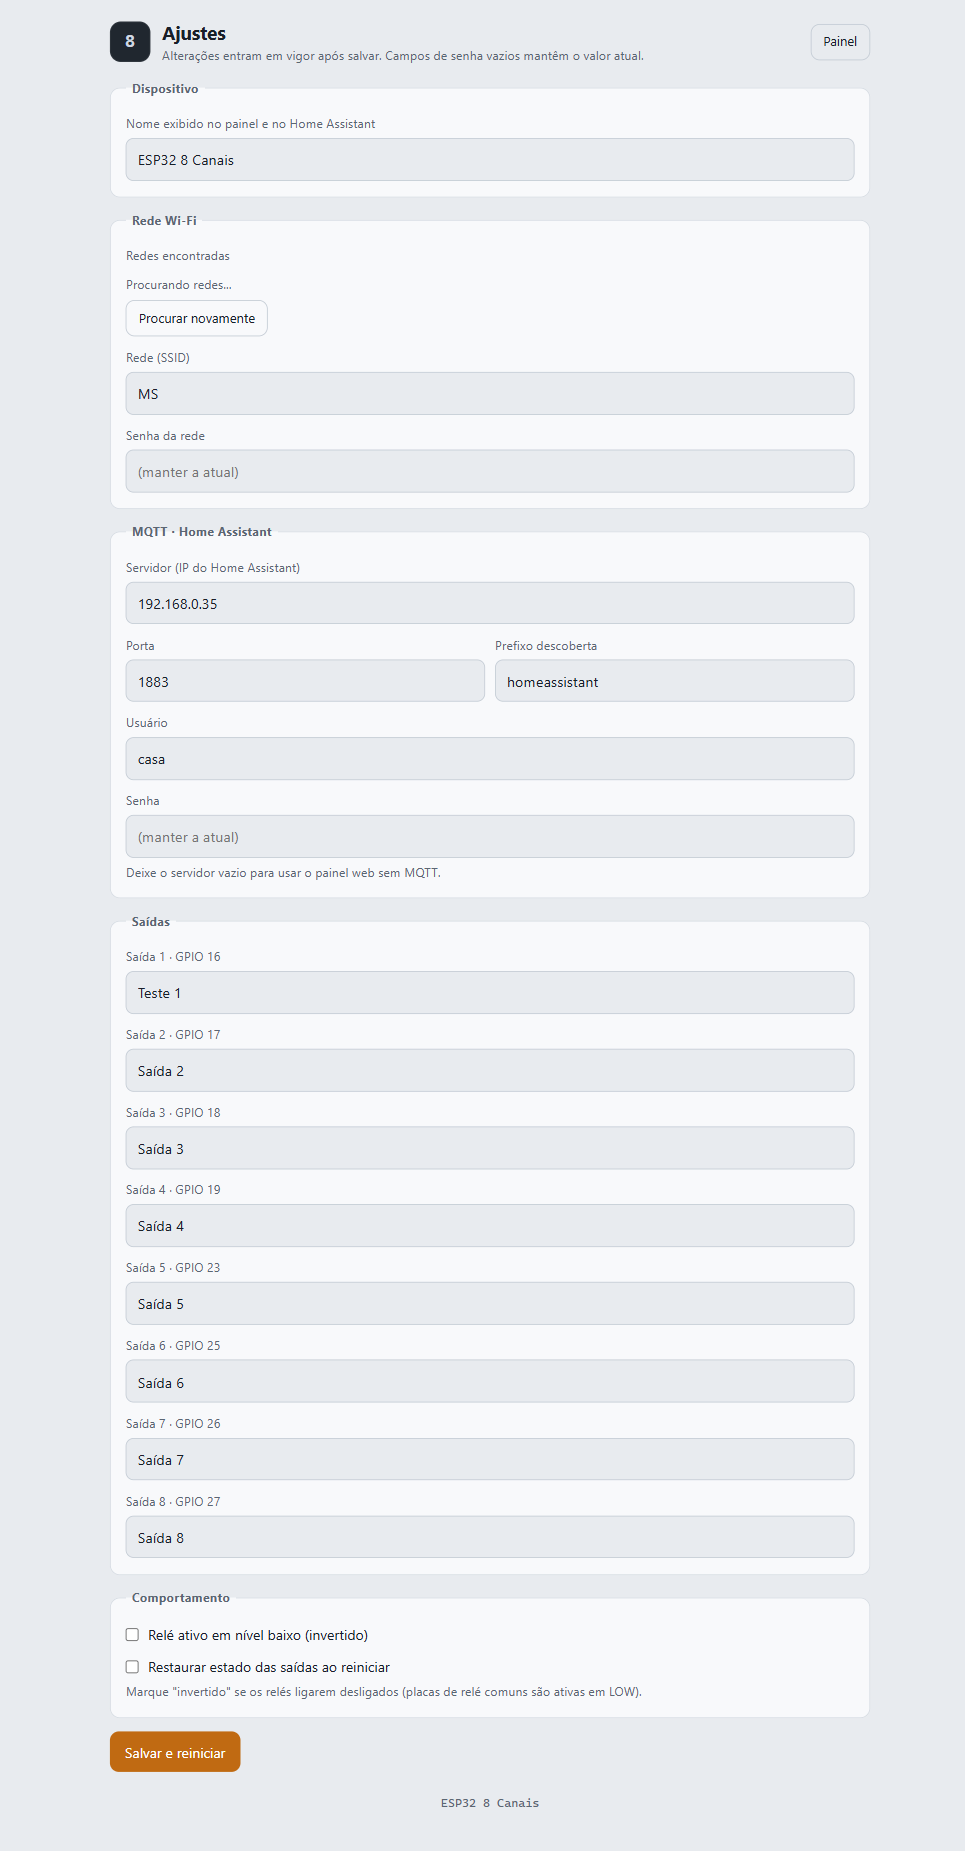
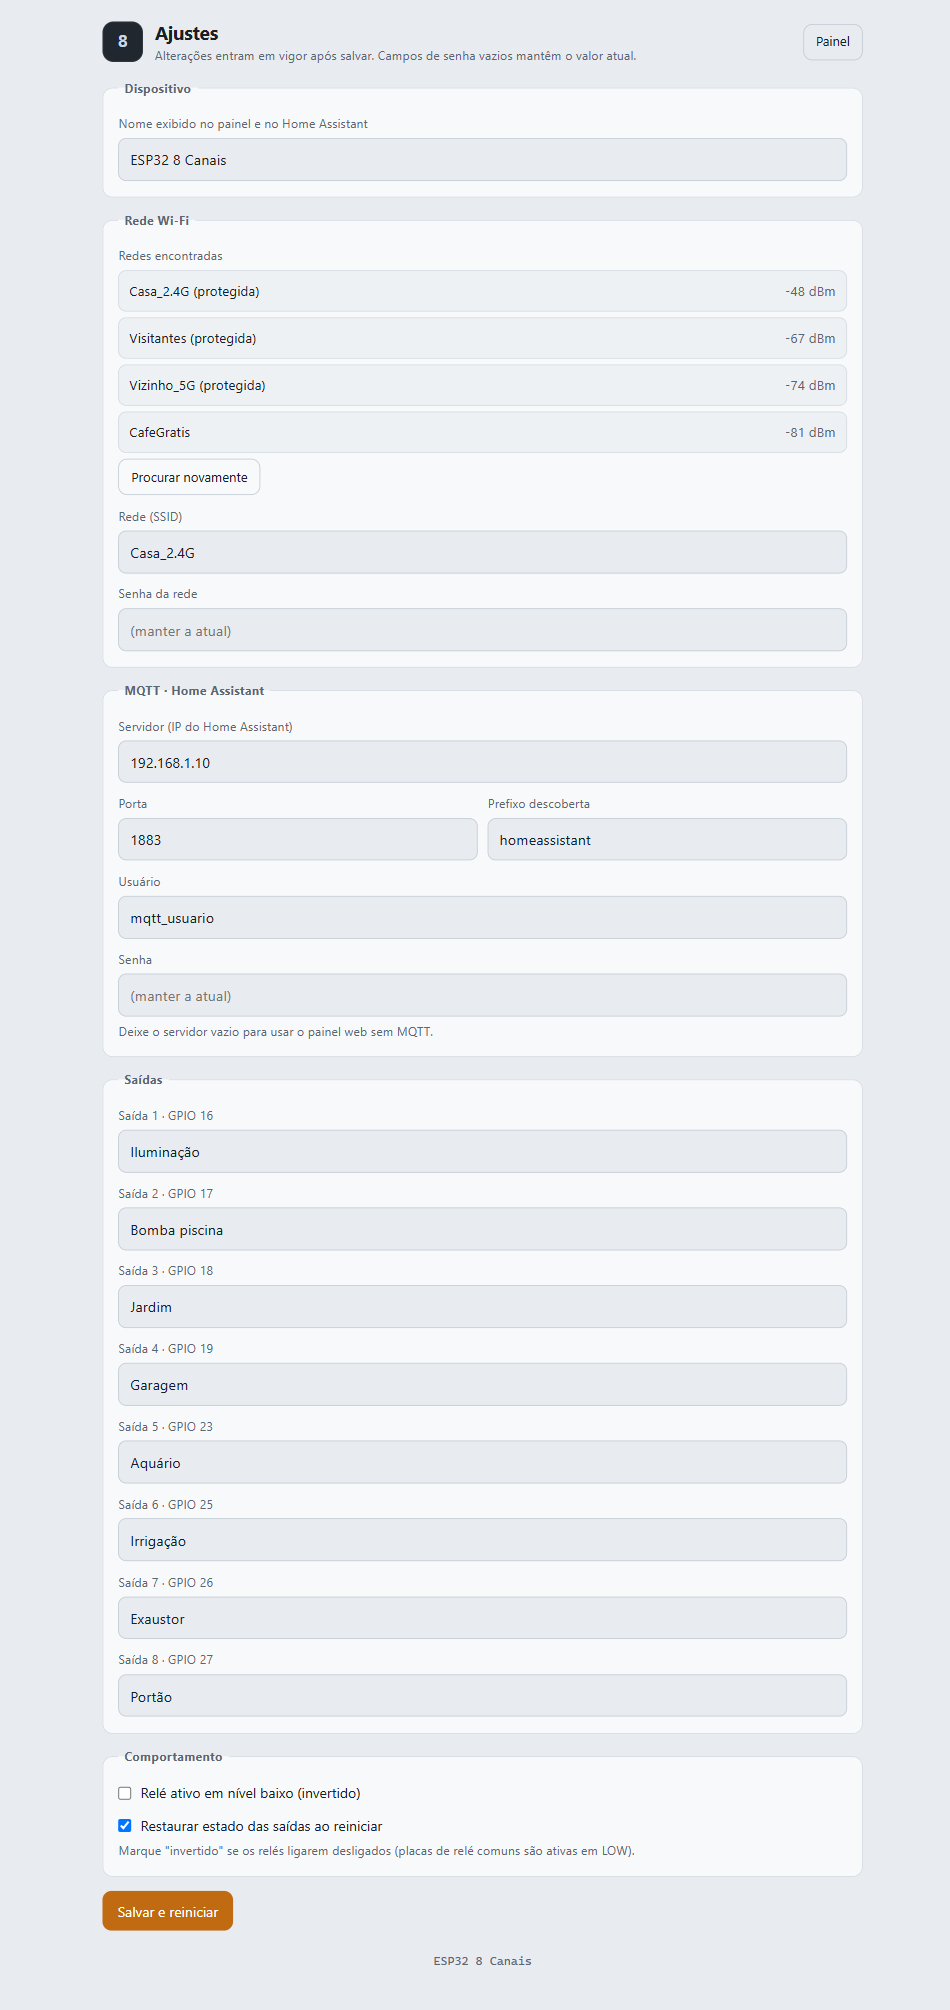
docs: adiciona LICENCAS.md, aviso de marcas e screenshots com dados ficticios

diff --git a/docs/LICENCAS.md b/docs/LICENCAS.md
@@ -1,0 +1,70 @@
+# Licenças e créditos
+
+Este documento reúne as licenças do **próprio projeto** e os **créditos de
+terceiros** (bibliotecas, plataforma e marcas) usados no firmware.
+
+> Este projeto é **independente** e **não é afiliado, patrocinado ou endossado**
+> pela Espressif Systems, pelo Arduino ou pelo Home Assistant.
+
+## 1. Licença do projeto
+
+O firmware e a interface web deste repositório são originais e distribuídos sob
+a licença **MIT** — Copyright (c) 2026 **Marcos (mpsc)**. O texto completo está
+em [`../LICENSE`](../LICENSE).
+
+Isso significa que você pode usar, copiar, modificar e redistribuir este código,
+inclusive comercialmente, desde que **mantenha o aviso de copyright e a licença**
+originais.
+
+## 2. Bibliotecas de terceiros
+
+O repositório **não redistribui** o código dessas bibliotecas — cada pessoa as
+instala pela Arduino IDE ou pelo `arduino-cli`. Ainda assim, elas são parte do
+build e vão **linkadas no binário final**. Abaixo, os créditos e licenças:
+
+| Componente | Autor / origem | Licença |
+|---|---|---|
+| **Arduino core for ESP32** (`esp32:esp32`) | Espressif Systems / comunidade Arduino | **LGPL-2.1** (core) e **Apache-2.0** (componentes do ESP-IDF) |
+| **PubSubClient** | Nick O'Leary | **MIT** |
+| **ArduinoJson** | Benoit Blanchon | **MIT** |
+
+As demais APIs usadas (`WiFi`, `WebServer`, `DNSServer`, `ESPmDNS`,
+`Preferences`, `ESP32`/`ESP`) fazem parte do **core ESP32**, sob a licença do
+próprio core (LGPL-2.1 / Apache-2.0), e não de código deste repositório.
+
+> Como essas bibliotecas **não são redistribuídas** aqui, a obrigação principal
+> ao publicar/derivar este projeto é **creditá-las** e respeitar as licenças
+> originais caso você decida embutir o código delas.
+
+## 3. Recursos visuais e de interface
+
+- A interface web (`web_ui.h`) foi escrita do zero e usa **apenas fontes do
+  sistema** (`-apple-system`, `Segoe UI`, `Roboto`, `sans-serif`). **Não há
+  fontes, ícones ou imagens de terceiros** embutidos.
+- As capturas de tela em [`images/`](images/) são do próprio projeto e usam
+  **dados fictícios**.
+
+## 4. Marcas registradas
+
+As marcas abaixo pertencem aos respectivos titulares e são citadas apenas de
+forma **descritiva** (indicação de compatibilidade), sem sugerir vínculo ou
+endosso:
+
+| Marca | Titular |
+|---|---|
+| **ESP32** / **Espressif** | Espressif Systems (Shanghai) Co. Ltd. |
+| **Arduino** | Arduino S.r.l. / Arduino AG |
+| **Home Assistant** | Open Home Foundation / Nabu Casa |
+| **MQTT** | OASIS Open (especificação) |
+
+## 5. Isenção de responsabilidade
+
+O software é fornecido "como está", sem garantias de qualquer tipo. Este projeto
+comuta **cargas elétricas** e **não** se responsabiliza por danos a equipamentos,
+instalações ou pessoas. Trabalhe com **110/220 V somente se tiver qualificação** —
+veja [HARDWARE.md](HARDWARE.md).
+
+---
+
+> Nada aqui constitui aconselhamento jurídico. Para uso comercial ou em caso de
+> dúvida sobre licenças, consulte um profissional.

diff --git a/README.md b/README.md
@@ -172,6 +172,7 @@ Mais respostas na seção **Perguntas frequentes** do
 | [docs/HARDWARE.md](docs/HARDWARE.md) | Pinagem, ligação e segurança |
 | [docs/MQTT_HOME_ASSISTANT.md](docs/MQTT_HOME_ASSISTANT.md) | Tópicos e integração com o HA |
 | [docs/API.md](docs/API.md) | Referência da API HTTP |
+| [docs/LICENCAS.md](docs/LICENCAS.md) | Licenças e créditos de terceiros |
 | [CHANGELOG.md](CHANGELOG.md) | Histórico de versões |
 | [SECURITY.md](SECURITY.md) | Boas práticas de segurança |
 
@@ -184,6 +185,11 @@ Sugestões e correções são bem-vindas! Veja
 ## Licença
 
 Distribuído sob a licença **[MIT](LICENSE)**.
+
+Este é um projeto **independente**, sem vínculo ou endosso da Espressif, do
+Arduino ou do Home Assistant — essas marcas pertencem aos seus titulares e são
+citadas apenas de forma descritiva. Créditos de bibliotecas e marcas de
+terceiros em **[docs/LICENCAS.md](docs/LICENCAS.md)**.
 
 ---
 

diff --git a/CHANGELOG.md b/CHANGELOG.md
@@ -7,6 +7,20 @@ e o projeto adere ao [Versionamento Semântico](https://semver.org/lang/pt-BR/).
 
 ## [Não lançado]
 
+### Adicionado
+
+- [`docs/LICENCAS.md`](docs/LICENCAS.md): licenças do projeto e de terceiros,
+  créditos e aviso de marcas.
+
+### Alterado
+
+- **Capturas de tela** (`docs/images/`) regeradas com **dados fictícios** — as
+  versões anteriores expunham o SSID da rede, IPs locais e redes Wi-Fi vizinhas.
+- Aviso de que o projeto é **independente** (sem vínculo com Espressif, Arduino
+  ou Home Assistant).
+- Repositório renomeado para **`ESP32_8CH_Relay_HA`**; o CI passou a compilar o
+  sketch direto na raiz (o nome da pasta já coincide com o do `.ino`).
+
 ## [1.0.1] - 2026-10-13
 
 ### Corrigido
